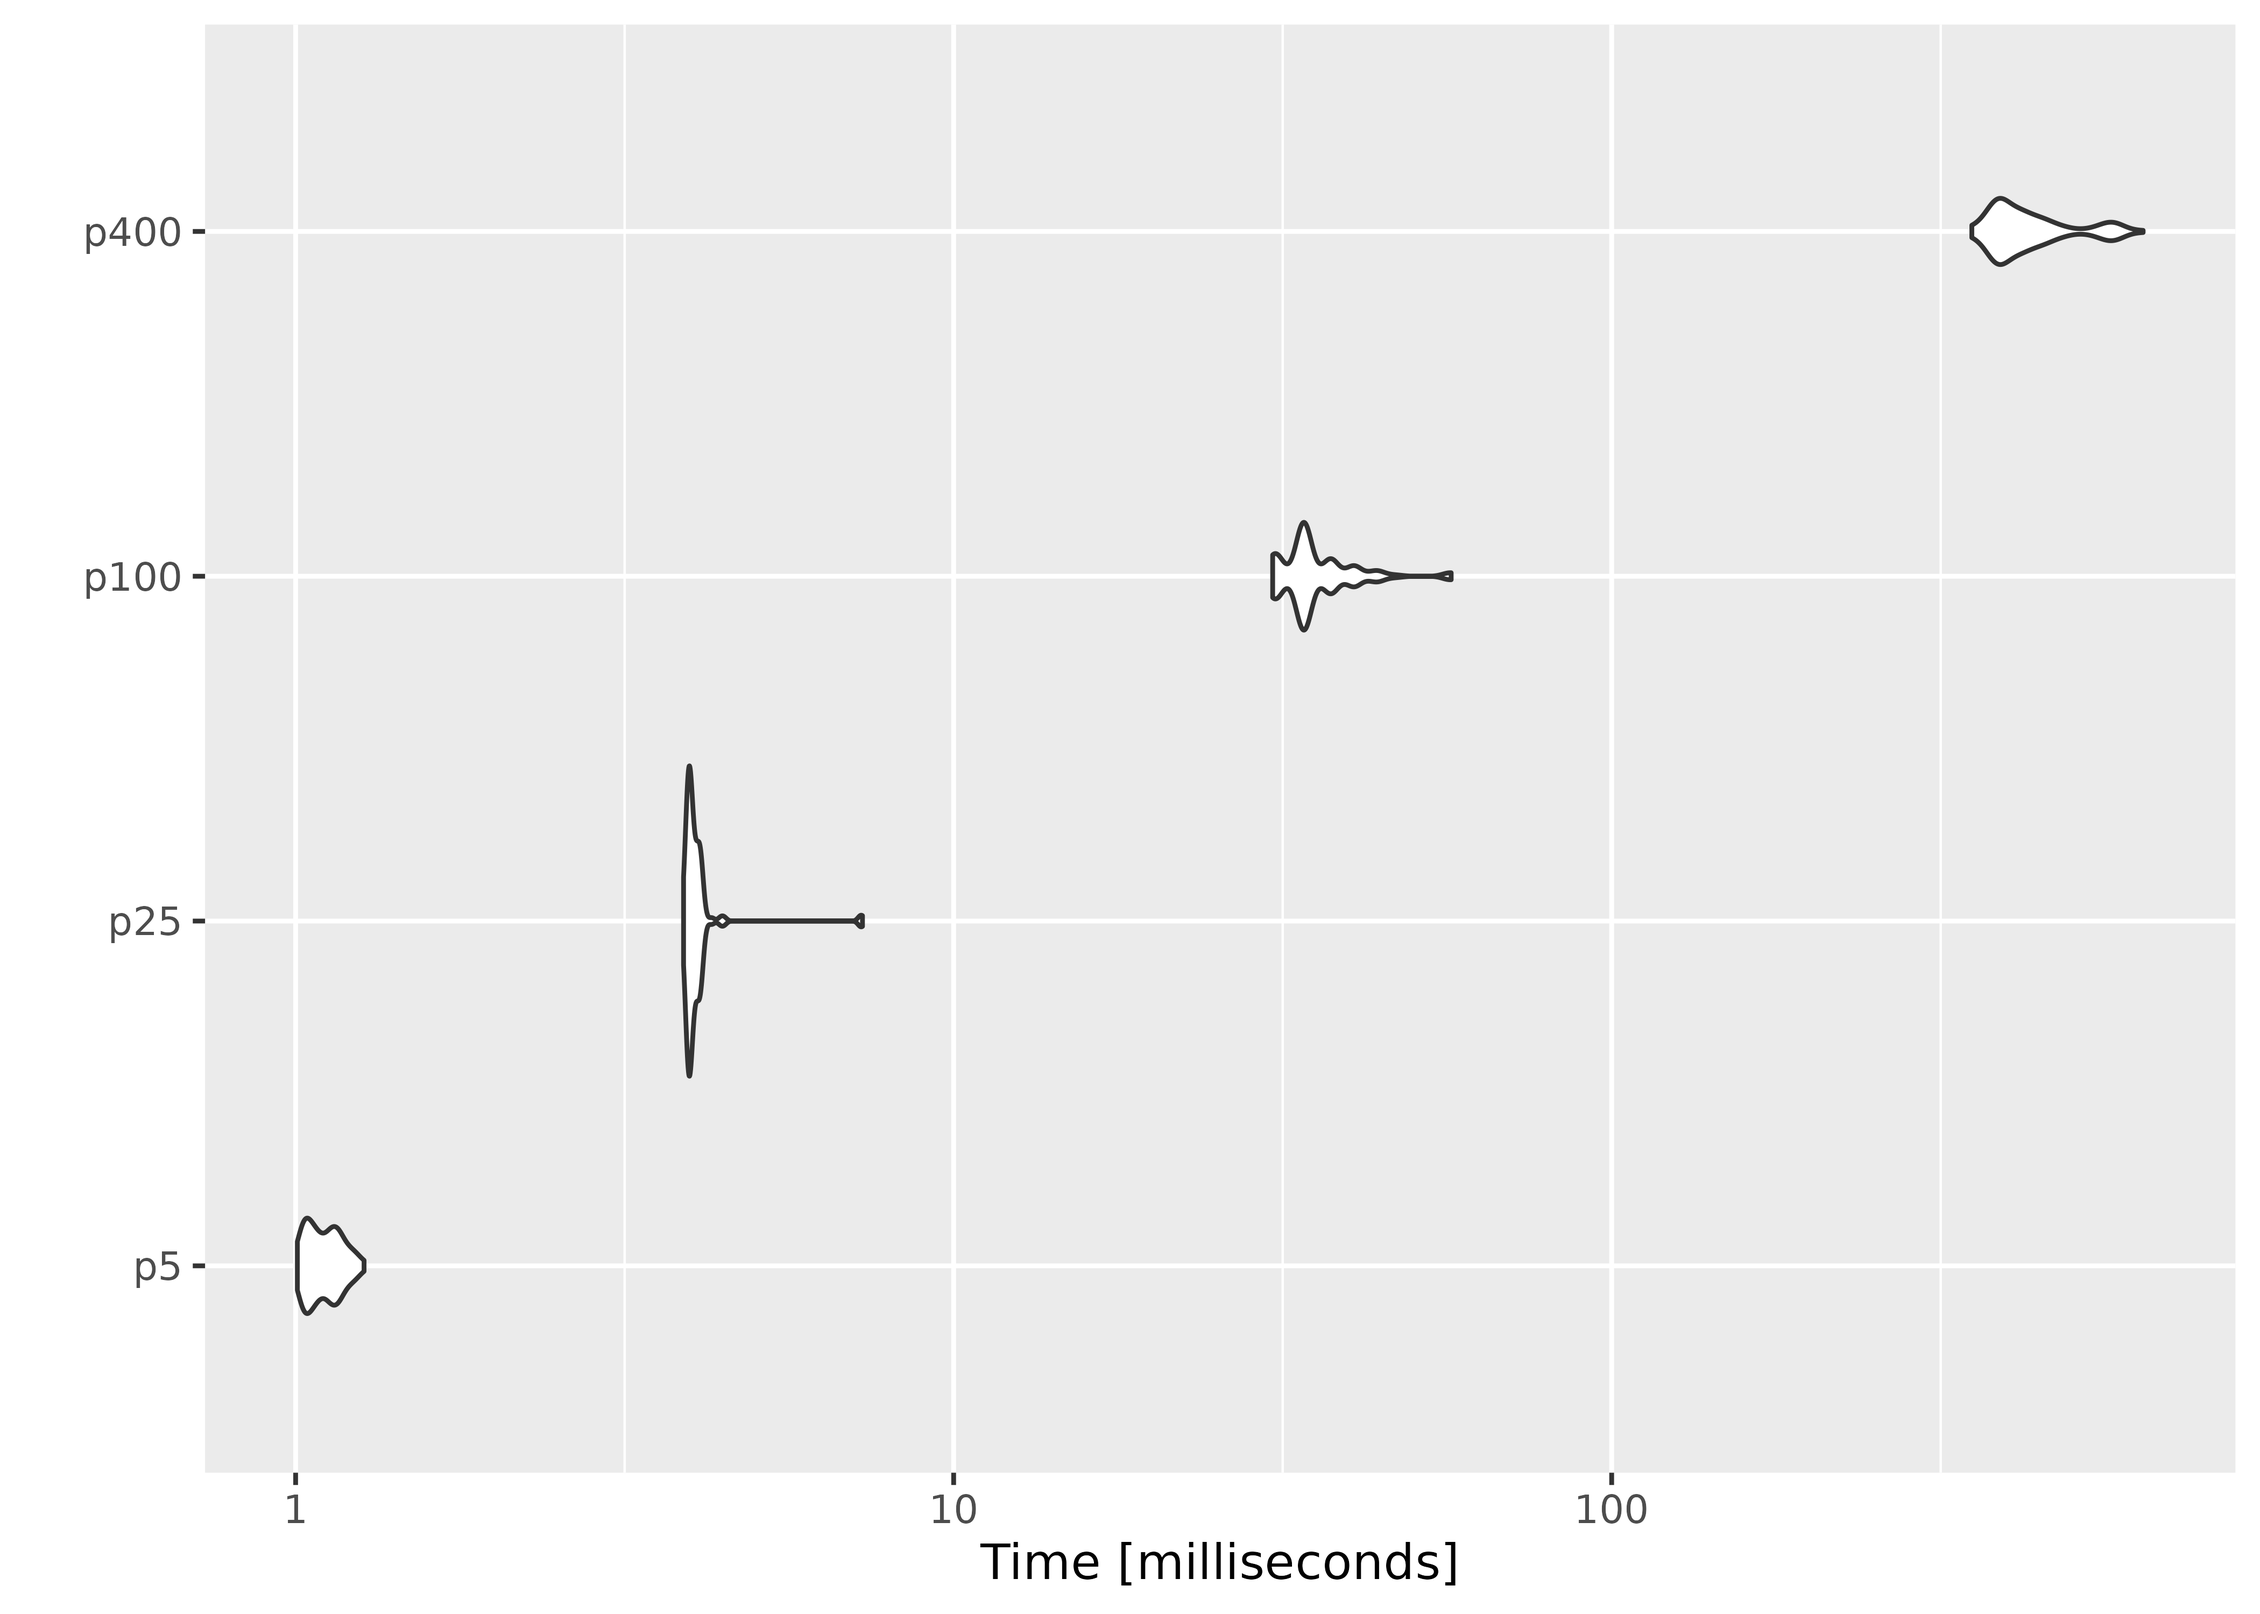
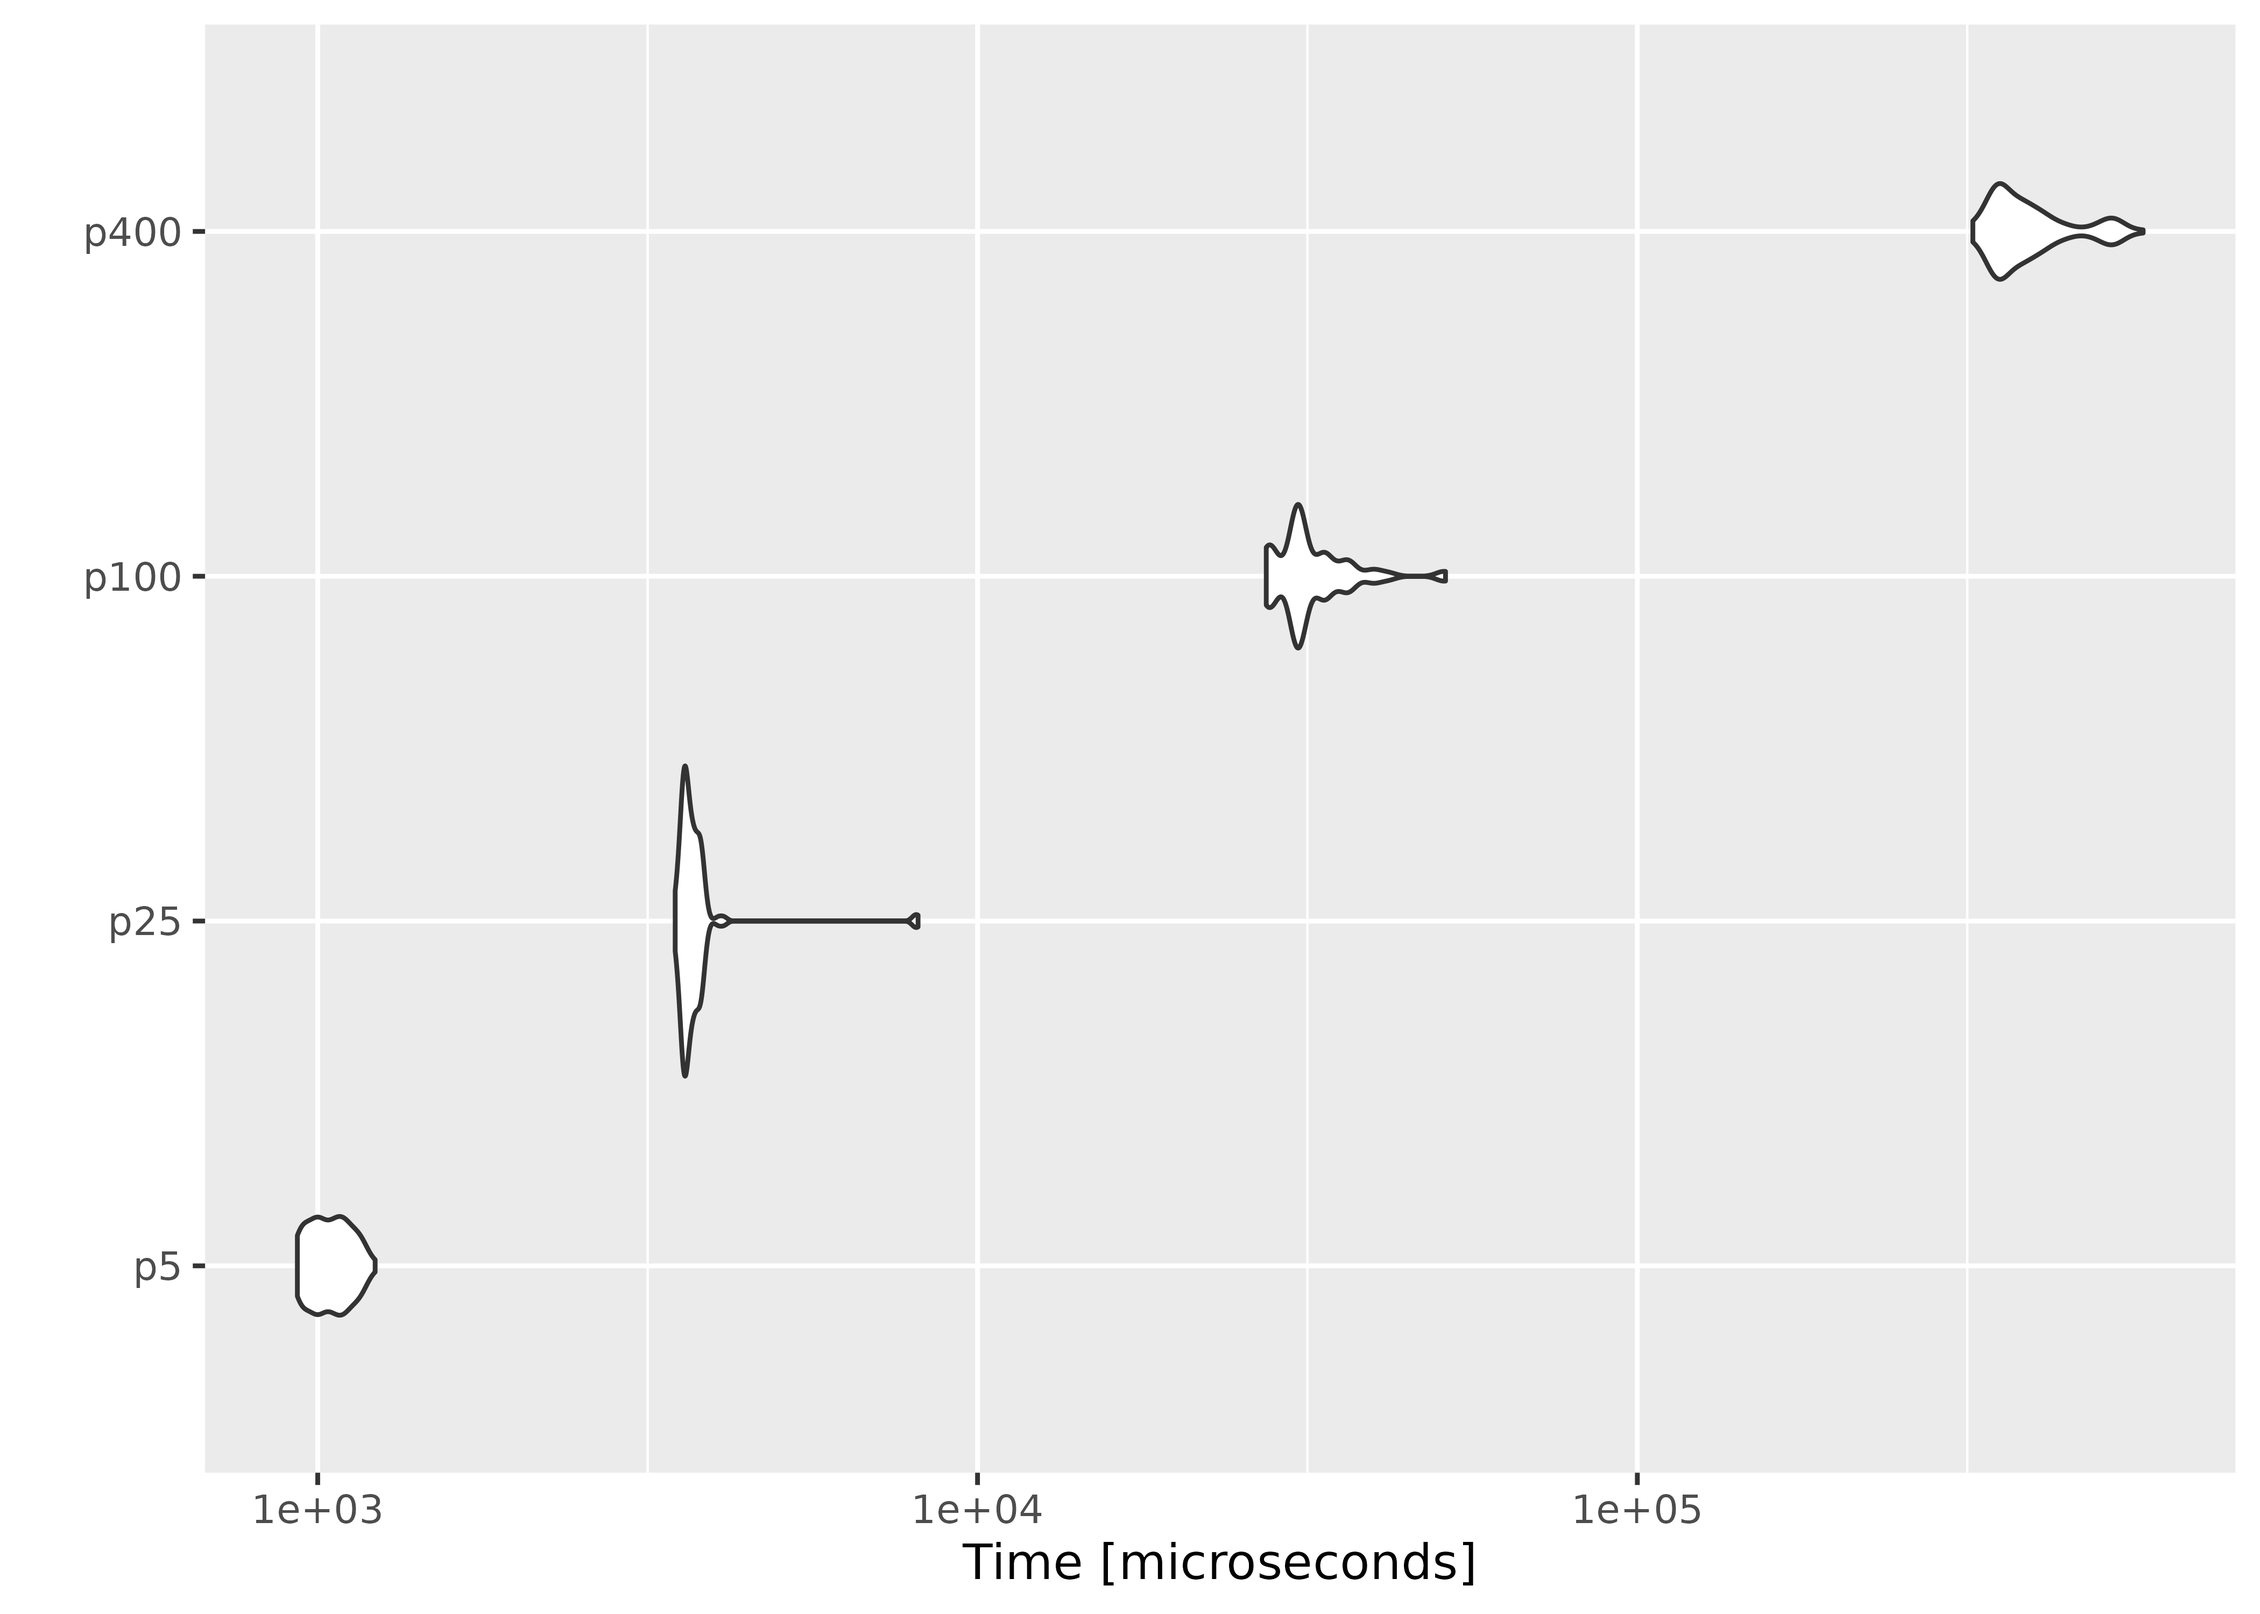
Deploying to gh-pages from @ ropensci/melt@30f10d48ffddb47062b3ddc5e681bf7e9c1a1b68 🚀

diff --git a/articles/performance.html b/articles/performance.html
@@ -47,12 +47,6 @@
     <div id="navbar" class="navbar-collapse collapse">
       <ul class="nav navbar-nav">
 <li>
-  <a href="../index.html">
-    <span class="fa fa-home"></span>
-     
-  </a>
-</li>
-<li>
   <a href="../reference/index.html">Reference</a>
 </li>
 <li class="dropdown">
@@ -133,11 +127,11 @@
 <div class="sourceCode" id="cb3"><pre class="downlit sourceCode r">
 <code class="sourceCode R"><span><span class="va">result</span></span>
 <span><span class="co">#&gt; Unit: microseconds</span></span>
-<span><span class="co">#&gt;  expr      min        lq       mean    median       uq      max neval</span></span>
-<span><span class="co">#&gt;  n1e2    589.7    630.10    709.371    653.65    701.1   5252.9   100</span></span>
-<span><span class="co">#&gt;  n1e3   1714.4   1868.05   2033.142   2005.70   2146.1   2546.0   100</span></span>
-<span><span class="co">#&gt;  n1e4  15465.1  16841.20  20001.757  20362.65  22431.9  26296.1   100</span></span>
-<span><span class="co">#&gt;  n1e5 283223.1 338960.00 389395.928 374828.75 438981.9 541594.5   100</span></span>
+<span><span class="co">#&gt;  expr      min        lq       mean    median        uq      max neval</span></span>
+<span><span class="co">#&gt;  n1e2    547.3    572.95    673.062    602.75    664.20   6209.0   100</span></span>
+<span><span class="co">#&gt;  n1e3   1538.6   1705.30   1850.201   1827.30   1960.70   2348.2   100</span></span>
+<span><span class="co">#&gt;  n1e4  13923.4  15243.55  18242.543  18547.65  20397.25  25658.8   100</span></span>
+<span><span class="co">#&gt;  n1e5 276503.9 329704.85 383841.955 371183.50 430357.40 528492.5   100</span></span>
 <span><span class="fu"><a href="https://ggplot2.tidyverse.org/reference/autoplot.html" class="external-link">autoplot</a></span><span class="op">(</span><span class="va">result</span><span class="op">)</span></span></code></pre></div>
 <p><img src="performance_files/figure-html/unnamed-chunk-3-1.png" width="100%" style="display: block; margin: auto;"></p>
 </div>
@@ -167,12 +161,12 @@
 <span><span class="op">)</span></span></code></pre></div>
 <div class="sourceCode" id="cb5"><pre class="downlit sourceCode r">
 <code class="sourceCode R"><span><span class="va">result2</span></span>
-<span><span class="co">#&gt; Unit: milliseconds</span></span>
+<span><span class="co">#&gt; Unit: microseconds</span></span>
 <span><span class="co">#&gt;  expr      min        lq       mean    median        uq      max neval</span></span>
-<span><span class="co">#&gt;    p5   1.0061   1.03985   1.105426   1.09170   1.15680   1.2706   100</span></span>
-<span><span class="co">#&gt;   p25   3.8864   3.95365   4.087946   3.99060   4.09775   7.2684   100</span></span>
-<span><span class="co">#&gt;  p100  30.5367  33.86980  35.816885  34.09245  37.39760  57.0279   100</span></span>
-<span><span class="co">#&gt;  p400 352.6443 386.27985 434.404868 416.71400 450.98220 642.2122   100</span></span>
+<span><span class="co">#&gt;    p5    931.4    986.30   1046.257   1045.65   1100.00   1221.8   100</span></span>
+<span><span class="co">#&gt;   p25   3481.5   3588.05   3761.360   3643.20   3757.95   8126.0   100</span></span>
+<span><span class="co">#&gt;  p100  27389.4  30321.10  32286.342  30678.75  33651.65  51201.1   100</span></span>
+<span><span class="co">#&gt;  p400 322484.1 351250.75 395558.805 378823.15 410538.05 584244.9   100</span></span>
 <span><span class="fu"><a href="https://ggplot2.tidyverse.org/reference/autoplot.html" class="external-link">autoplot</a></span><span class="op">(</span><span class="va">result2</span><span class="op">)</span></span></code></pre></div>
 <p><img src="performance_files/figure-html/unnamed-chunk-5-1.png" width="100%" style="display: block; margin: auto;"> On average, evaluating empirical likelihood with a 100000×10 or 1000×400 matrix at a parameter value satisfying the convex hull constraint takes less than a second.</p>
 </div>

diff --git a/reference/el_pairwise.html b/reference/el_pairwise.html
@@ -27,12 +27,6 @@ This function is deprecated and will be removed in a future release."><meta prop
 
     <div id="navbar" class="navbar-collapse collapse">
       <ul class="nav navbar-nav"><li>
-  <a href="../index.html">
-    <span class="fa fa-home"></span>
-     
-  </a>
-</li>
-<li>
   <a href="../reference/index.html">Reference</a>
 </li>
 <li class="dropdown">

diff --git a/reference/melt-package.html b/reference/melt-package.html
@@ -24,12 +24,6 @@ Performs multiple empirical likelihood tests for linear and generalized linear m
 
     <div id="navbar" class="navbar-collapse collapse">
       <ul class="nav navbar-nav"><li>
-  <a href="../index.html">
-    <span class="fa fa-home"></span>
-     
-  </a>
-</li>
-<li>
   <a href="../reference/index.html">Reference</a>
 </li>
 <li class="dropdown">

diff --git a/404.html b/404.html
@@ -46,12 +46,6 @@
     <div id="navbar" class="navbar-collapse collapse">
       <ul class="nav navbar-nav">
 <li>
-  <a href="https://docs.ropensci.org/melt/index.html">
-    <span class="fa fa-home"></span>
-     
-  </a>
-</li>
-<li>
   <a href="https://docs.ropensci.org/melt/reference/index.html">Reference</a>
 </li>
 <li class="dropdown">

diff --git a/articles/index.html b/articles/index.html
@@ -23,12 +23,6 @@
 
     <div id="navbar" class="navbar-collapse collapse">
       <ul class="nav navbar-nav"><li>
-  <a href="../index.html">
-    <span class="fa fa-home"></span>
-     
-  </a>
-</li>
-<li>
   <a href="../reference/index.html">Reference</a>
 </li>
 <li class="dropdown">

diff --git a/articles/model.html b/articles/model.html
@@ -47,12 +47,6 @@
     <div id="navbar" class="navbar-collapse collapse">
       <ul class="nav navbar-nav">
 <li>
-  <a href="../index.html">
-    <span class="fa fa-home"></span>
-     
-  </a>
-</li>
-<li>
   <a href="../reference/index.html">Reference</a>
 </li>
 <li class="dropdown">

diff --git a/news/index.html b/news/index.html
@@ -23,12 +23,6 @@
 
     <div id="navbar" class="navbar-collapse collapse">
       <ul class="nav navbar-nav"><li>
-  <a href="../index.html">
-    <span class="fa fa-home"></span>
-     
-  </a>
-</li>
-<li>
   <a href="../reference/index.html">Reference</a>
 </li>
 <li class="dropdown">

diff --git a/reference/CEL-class.html b/reference/CEL-class.html
@@ -26,12 +26,6 @@
 
     <div id="navbar" class="navbar-collapse collapse">
       <ul class="nav navbar-nav"><li>
-  <a href="../index.html">
-    <span class="fa fa-home"></span>
-     
-  </a>
-</li>
-<li>
   <a href="../reference/index.html">Reference</a>
 </li>
 <li class="dropdown">

diff --git a/reference/ConfregEL-class.html b/reference/ConfregEL-class.html
@@ -23,12 +23,6 @@
 
     <div id="navbar" class="navbar-collapse collapse">
       <ul class="nav navbar-nav"><li>
-  <a href="../index.html">
-    <span class="fa fa-home"></span>
-     
-  </a>
-</li>
-<li>
   <a href="../reference/index.html">Reference</a>
 </li>
 <li class="dropdown">

diff --git a/reference/ControlEL-class.html b/reference/ControlEL-class.html
@@ -23,12 +23,6 @@
 
     <div id="navbar" class="navbar-collapse collapse">
       <ul class="nav navbar-nav"><li>
-  <a href="../index.html">
-    <span class="fa fa-home"></span>
-     
-  </a>
-</li>
-<li>
   <a href="../reference/index.html">Reference</a>
 </li>
 <li class="dropdown">

diff --git a/reference/EL-class.html b/reference/EL-class.html
@@ -23,12 +23,6 @@
 
     <div id="navbar" class="navbar-collapse collapse">
       <ul class="nav navbar-nav"><li>
-  <a href="../index.html">
-    <span class="fa fa-home"></span>
-     
-  </a>
-</li>
-<li>
   <a href="../reference/index.html">Reference</a>
 </li>
 <li class="dropdown">

diff --git a/reference/ELD-class.html b/reference/ELD-class.html
@@ -23,12 +23,6 @@
 
     <div id="navbar" class="navbar-collapse collapse">
       <ul class="nav navbar-nav"><li>
-  <a href="../index.html">
-    <span class="fa fa-home"></span>
-     
-  </a>
-</li>
-<li>
   <a href="../reference/index.html">Reference</a>
 </li>
 <li class="dropdown">
